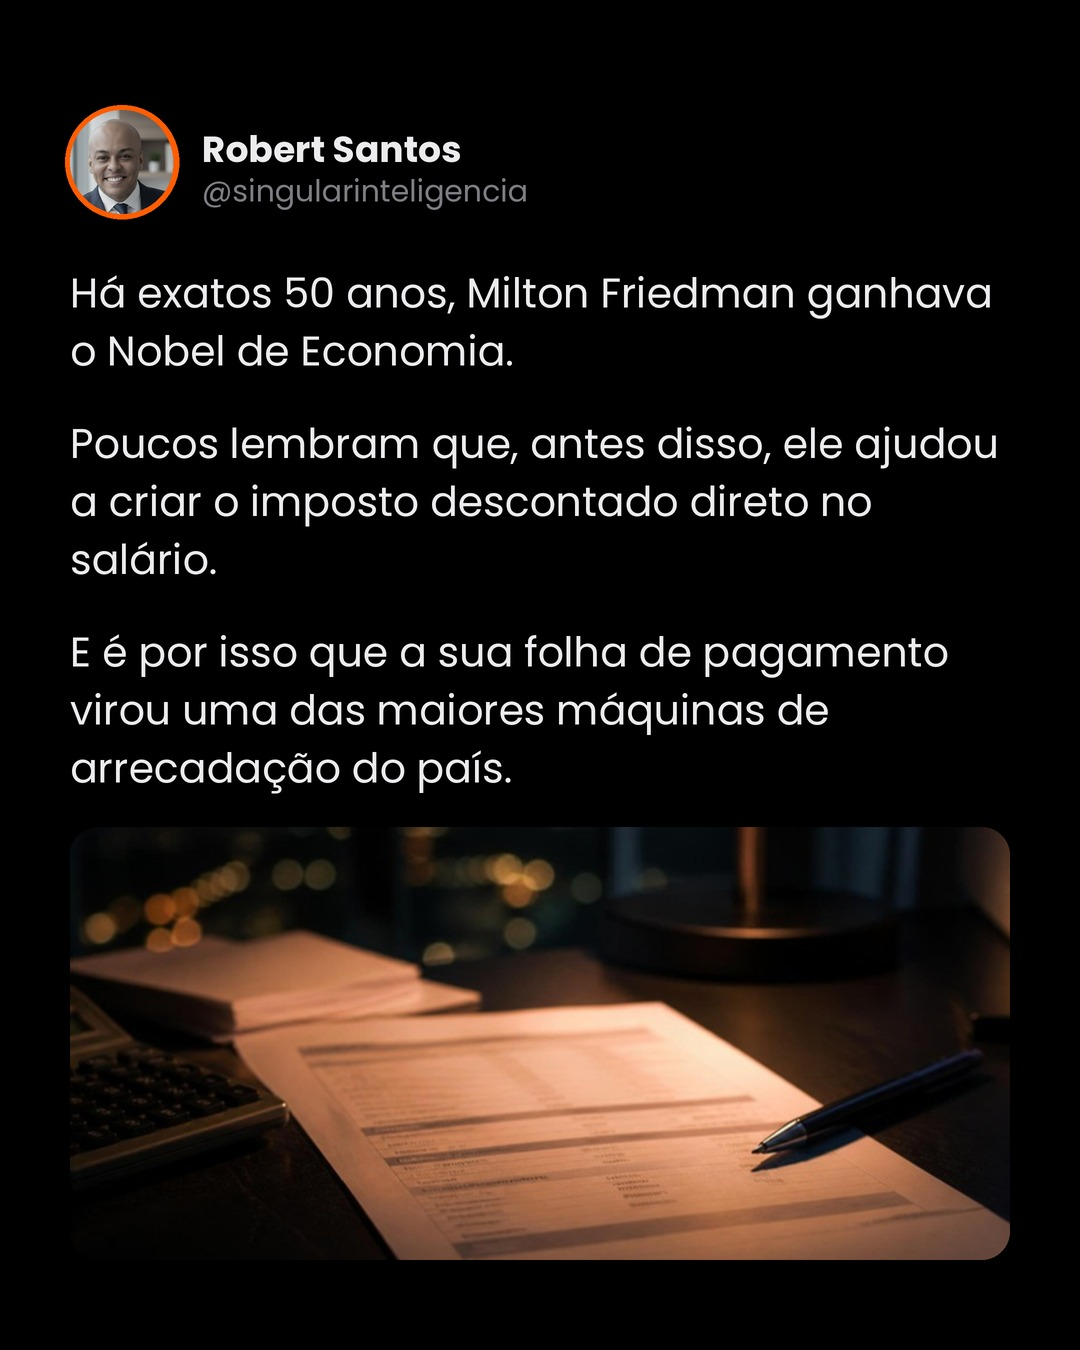
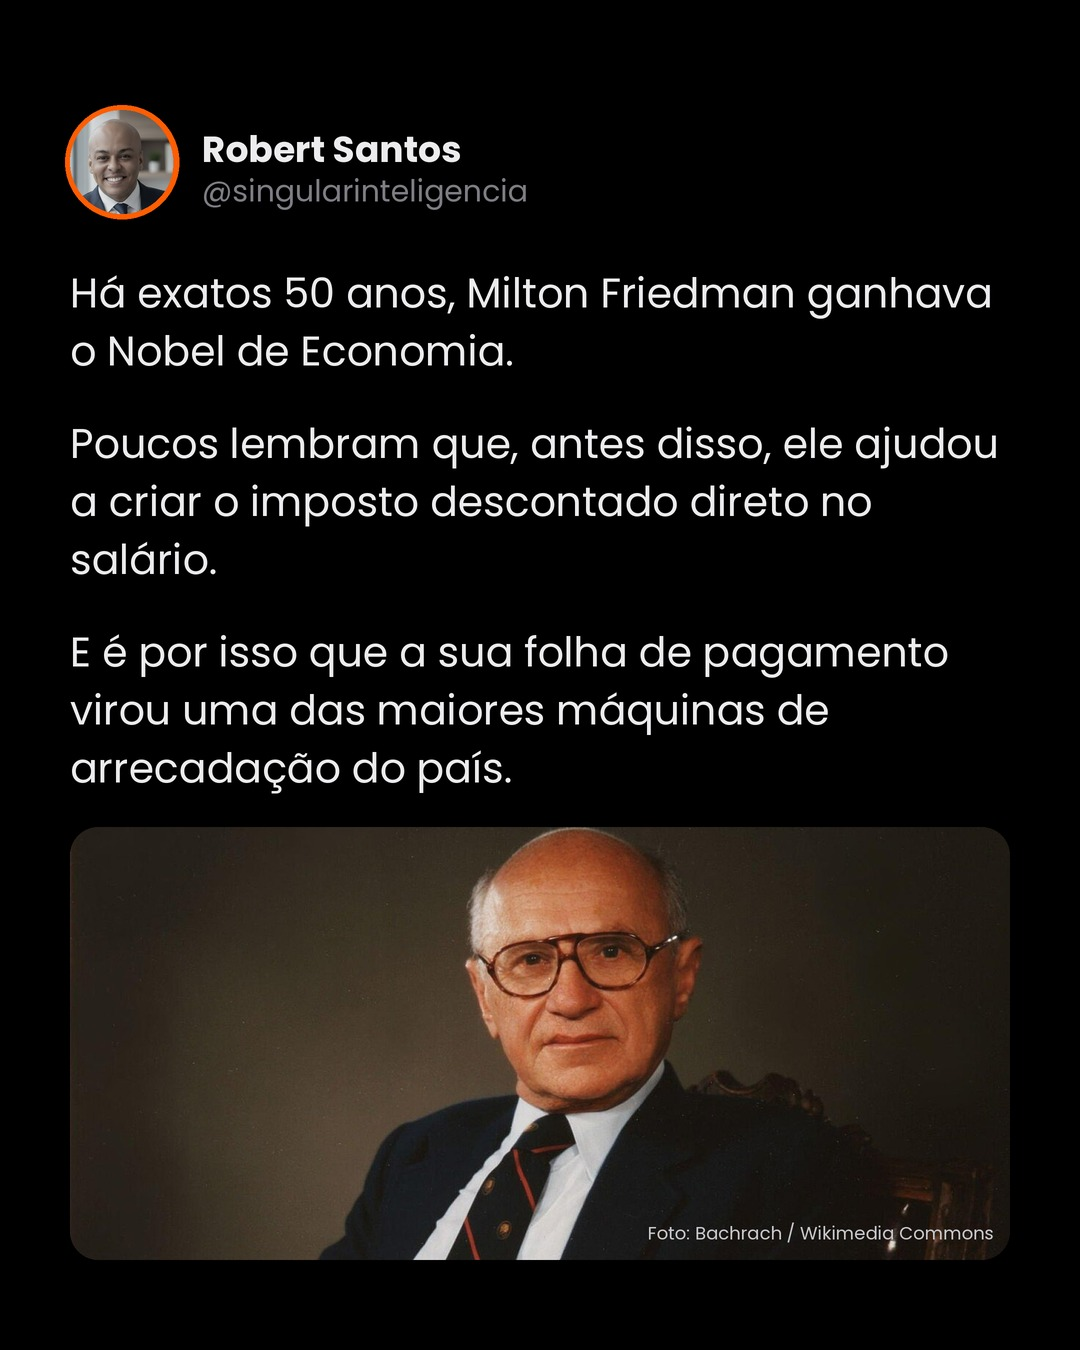
Friedman: foto da Wikimedia
Claude-Session: https://claude.ai/code/session_01EU5MQFhFokLaCkU7Gu5FMY

Changed region(s): [[0.0611, 0.5911, 0.9472, 0.9333]]

diff --git a/motor/post_texto.py b/motor/post_texto.py
@@ -7,6 +7,7 @@ S = 2
 W, H = 1080 * S, 1350 * S
 FD = "/usr/share/fonts/truetype/google-fonts/"
 F = lambda n, s: ImageFont.truetype(FD + n, int(s * S))
+FONTE_FOTO = "Foto: Bachrach / Wikimedia Commons"
 BRANCO, CINZA = (236, 236, 238), (125, 125, 132)
 MX = 70 * S
 
@@ -60,6 +61,8 @@ def card(texto, n, total, saida, foto=None):
             o = (ft.height - lim) // 2; ft = ft.crop((0, o, ft.width, o + lim))
         mk = Image.new("L", ft.size, 0); ImageDraw.Draw(mk).rounded_rectangle([0, 0, ft.width - 1, ft.height - 1], 28 * S, fill=255)
         img.paste(ft, (MX, y), mk)
+        if FONTE_FOTO:
+            d.text((MX + ft.width - 16 * S, y + ft.height - 14 * S), FONTE_FOTO, font=F("Poppins-Regular.ttf", 18), fill=(200, 200, 205), anchor="rd")
     if n > 1:
         d.text((W - MX, 80 * S), f"{n}/{total}", font=F("Poppins-Regular.ttf", 30), fill=CINZA, anchor="ra")
     img.save(saida, quality=95)
@@ -74,5 +77,5 @@ TXT = [
 if __name__ == "__main__":
     O = "/mnt/user-data/outputs/singular_friedman"
     for i, t in enumerate(TXT):
-        card(t, i + 1, len(TXT), f"{O}/{i+1}.png", foto="/home/claude/fotos/holerite.png" if i == 0 else None)
+        card(t, i + 1, len(TXT), f"{O}/{i+1}.png", foto="/home/claude/fotos/friedman.png" if i == 0 else None)
     print("ok")
